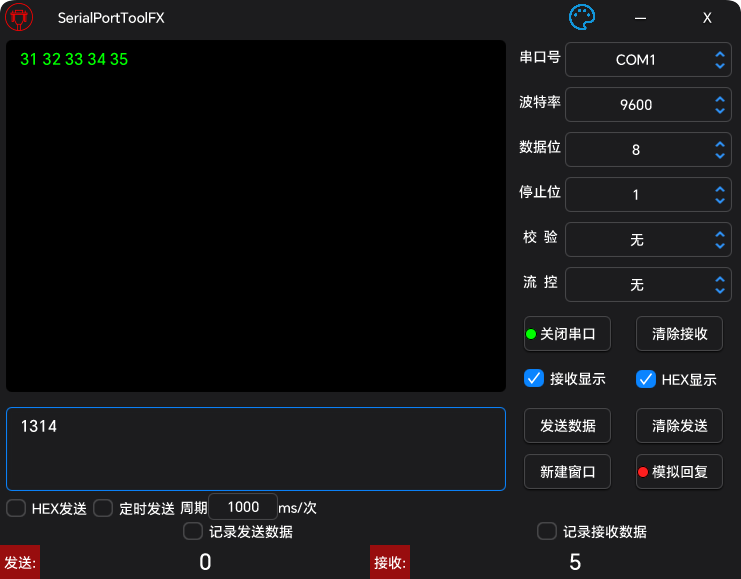
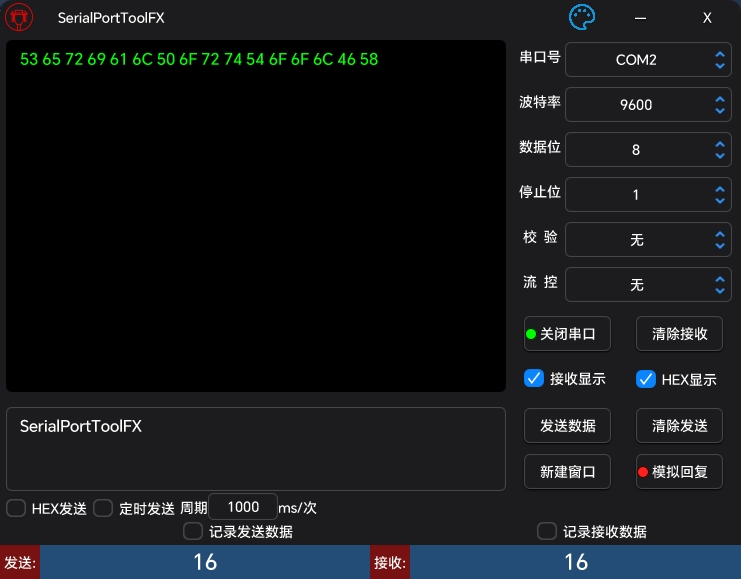
v1.1.0 修改接受显示为默认勾选 添加github工作流自动打包

diff --git a/src/main/java/com/yiaobang/serialPortToolFX/serialComm/SerialComm.java b/src/main/java/com/yiaobang/serialPortToolFX/serialComm/SerialComm.java
@@ -2,8 +2,8 @@ package com.yiaobang.serialPortToolFX.serialComm;
 
 import com.fazecast.jSerialComm.SerialPort;
 import com.fazecast.jSerialComm.SerialPortDataListener;
-import com.yiaobang.javafxTool.core.FX;
-import com.yiaobang.javafxTool.mvvm.ViewModel;
+import com.yiaobang.serialPortToolFX.javafxTool.core.FX;
+import com.yiaobang.serialPortToolFX.javafxTool.mvvm.ViewModel;
 import com.yiaobang.serialPortToolFX.data.ByteBuffer;
 import com.yiaobang.serialPortToolFX.data.DataWriteFile;
 import com.yiaobang.serialPortToolFX.data.MockResponses;
@@ -22,8 +22,8 @@ import java.io.File;
 @Getter
 public final class SerialComm implements ViewModel, AutoCloseable {
 
-    //最多显示4096个接收到的字节
-    private static final int MAX_SHOW_BYTES = 4096;
+    //最多显示115200个接收到的字节
+    private static final int MAX_SHOW_BYTES = 115200;
     private final ByteBuffer buffer = new ByteBuffer(MAX_SHOW_BYTES);
     //模拟回复
     @Setter
@@ -37,8 +37,9 @@ public final class SerialComm implements ViewModel, AutoCloseable {
     private volatile boolean sendSave;
     @Setter
     private volatile boolean receiveSave;
+    //是否显示接收数据(默认显示)
     @Setter
-    private volatile boolean receiveShow = false;
+    private volatile boolean receiveShow = true;
 
 
     //发送的数据量

diff --git a/src/main/java/com/yiaobang/serialPortToolFX/view/SerialPortView.java b/src/main/java/com/yiaobang/serialPortToolFX/view/SerialPortView.java
@@ -1,9 +1,9 @@
 package com.yiaobang.serialPortToolFX.view;
 
 
-import com.yiaobang.javafxTool.core.FX;
-import com.yiaobang.javafxTool.mvvm.ViewFXML;
-import com.yiaobang.javafxTool.theme.Theme;
+import com.yiaobang.serialPortToolFX.javafxTool.core.FX;
+import com.yiaobang.serialPortToolFX.javafxTool.mvvm.ViewFXML;
+import com.yiaobang.serialPortToolFX.javafxTool.theme.Theme;
 import com.yiaobang.serialPortToolFX.serialComm.SerialComm;
 import com.yiaobang.serialPortToolFX.serialComm.SerialPortMonitor;
 import com.yiaobang.serialPortToolFX.utils.CodeFormat;

diff --git a/src/main/java/com/yiaobang/serialPortToolFX/AppLauncher.java b/src/main/java/com/yiaobang/serialPortToolFX/AppLauncher.java
@@ -1,6 +1,6 @@
 package com.yiaobang.serialPortToolFX;
 
-import com.yiaobang.javafxTool.theme.Theme;
+import com.yiaobang.serialPortToolFX.javafxTool.theme.Theme;
 import com.yiaobang.serialPortToolFX.serialComm.SerialPortMonitor;
 import com.yiaobang.serialPortToolFX.view.SerialPortView;
 import javafx.application.Application;

diff --git a/src/main/java/com/yiaobang/serialPortToolFX/serialComm/SerialPortMonitor.java b/src/main/java/com/yiaobang/serialPortToolFX/serialComm/SerialPortMonitor.java
@@ -1,7 +1,7 @@
 package com.yiaobang.serialPortToolFX.serialComm;
 
 import com.fazecast.jSerialComm.SerialPort;
-import com.yiaobang.javafxTool.core.FX;
+import com.yiaobang.serialPortToolFX.javafxTool.core.FX;
 import javafx.beans.property.SimpleStringProperty;
 import java.util.StringJoiner;
 

diff --git a/src/main/java/com/yiaobang/serialPortToolFX/javafxTool/theme/Theme.java b/src/main/java/com/yiaobang/serialPortToolFX/javafxTool/theme/Theme.java
@@ -1,4 +1,4 @@
-package com.yiaobang.javafxTool.theme;
+package com.yiaobang.serialPortToolFX.javafxTool.theme;
 
 public enum Theme {
     CUPERTINO_LIGHT("/atlantafx/base/theme/cupertino-light.css"),

diff --git a/src/main/java/com/yiaobang/serialPortToolFX/javafxTool/core/FX.java b/src/main/java/com/yiaobang/serialPortToolFX/javafxTool/core/FX.java
@@ -1,4 +1,4 @@
-package com.yiaobang.javafxTool.core;
+package com.yiaobang.serialPortToolFX.javafxTool.core;
 
 import javafx.application.Platform;
 import javafx.fxml.FXMLLoader;

diff --git a/src/main/java/com/yiaobang/serialPortToolFX/javafxTool/mvvm/ViewFXML.java b/src/main/java/com/yiaobang/serialPortToolFX/javafxTool/mvvm/ViewFXML.java
@@ -1,4 +1,4 @@
-package com.yiaobang.javafxTool.mvvm;
+package com.yiaobang.serialPortToolFX.javafxTool.mvvm;
 
 import javafx.fxml.Initializable;
 import java.net.URL;

diff --git a/src/main/java/com/yiaobang/serialPortToolFX/javafxTool/mvvm/ViewModel.java b/src/main/java/com/yiaobang/serialPortToolFX/javafxTool/mvvm/ViewModel.java
@@ -1,0 +1,5 @@
+package com.yiaobang.serialPortToolFX.javafxTool.mvvm;
+
+public interface ViewModel {
+
+}
